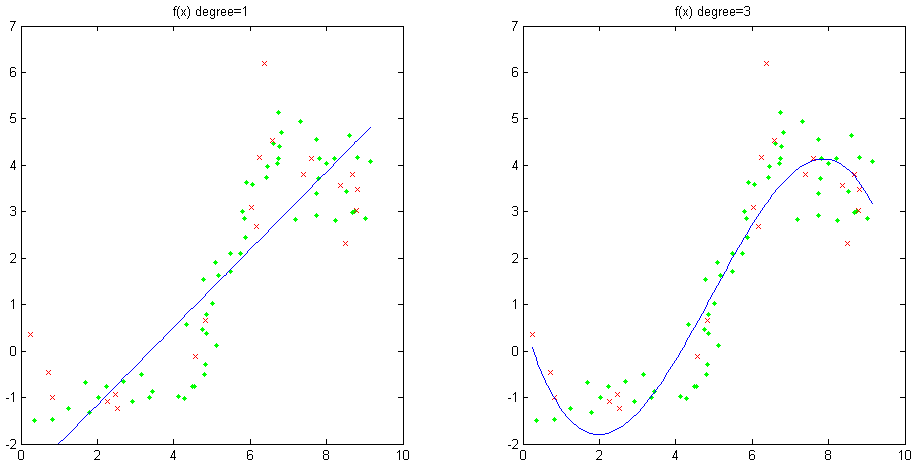
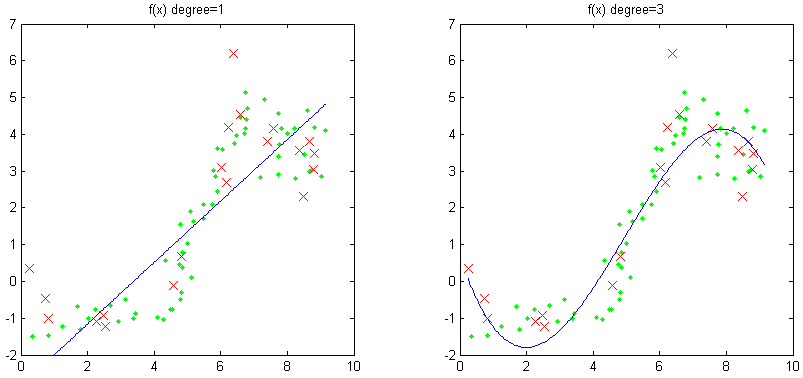
made nice plots for prob 1

diff --git a/Homework2/HW2/prob1.m b/Homework2/HW2/prob1.m
@@ -27,7 +27,8 @@ mseTe = mean(abs(YhatTe-Yte).^2);
 %%
 %Part C
 
-degs = [1 3 5 7 10 18];
+%degs = [1 3 5 7 10 18];
+degs = [10 18];
 YtrError = zeros(1,length(degs));
 YteError = zeros(1,length(degs));
 xs = (min(X):.05:max(X))'; % densely sample possible x-values
@@ -54,7 +55,7 @@ for i = 1:length(degs)
     
     ys = predict( lr, Phi(xs) ); % make predictions at xs
     
-    subplot(3,2,i)
+    subplot(1,2,i)
     plot(Xtr,Ytr,'g.','MarkerSize',10);
     hold on
     plot(Xte,Yte,'rx','MarkerSize',10); 
